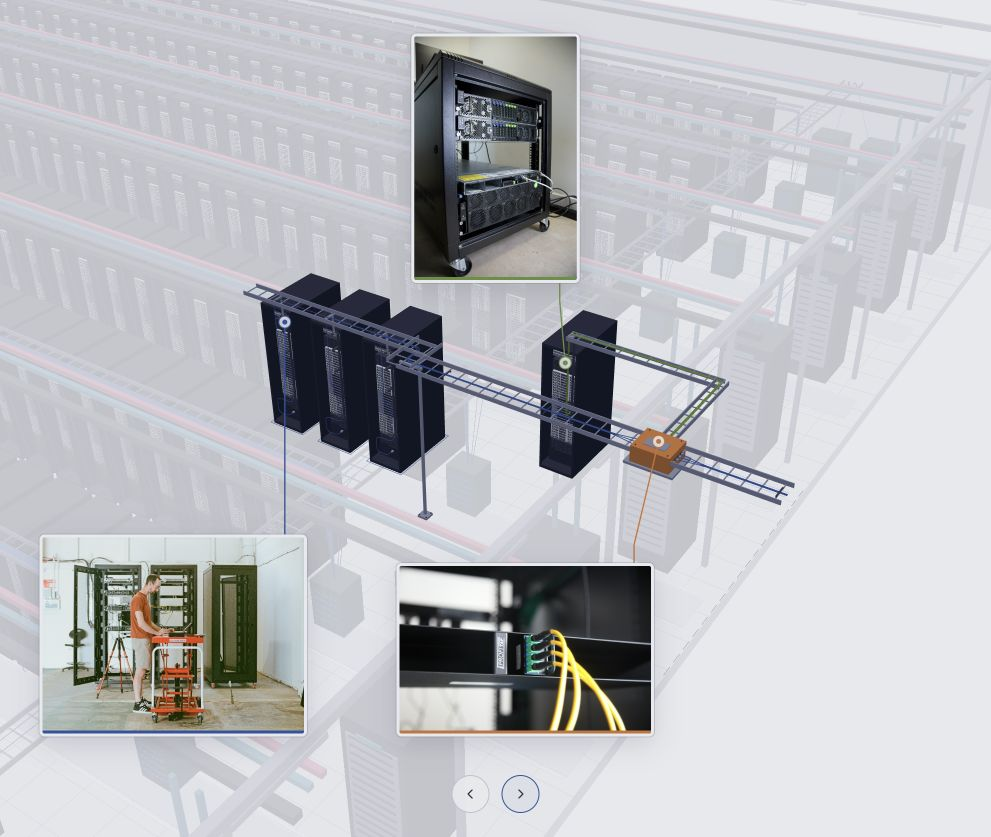
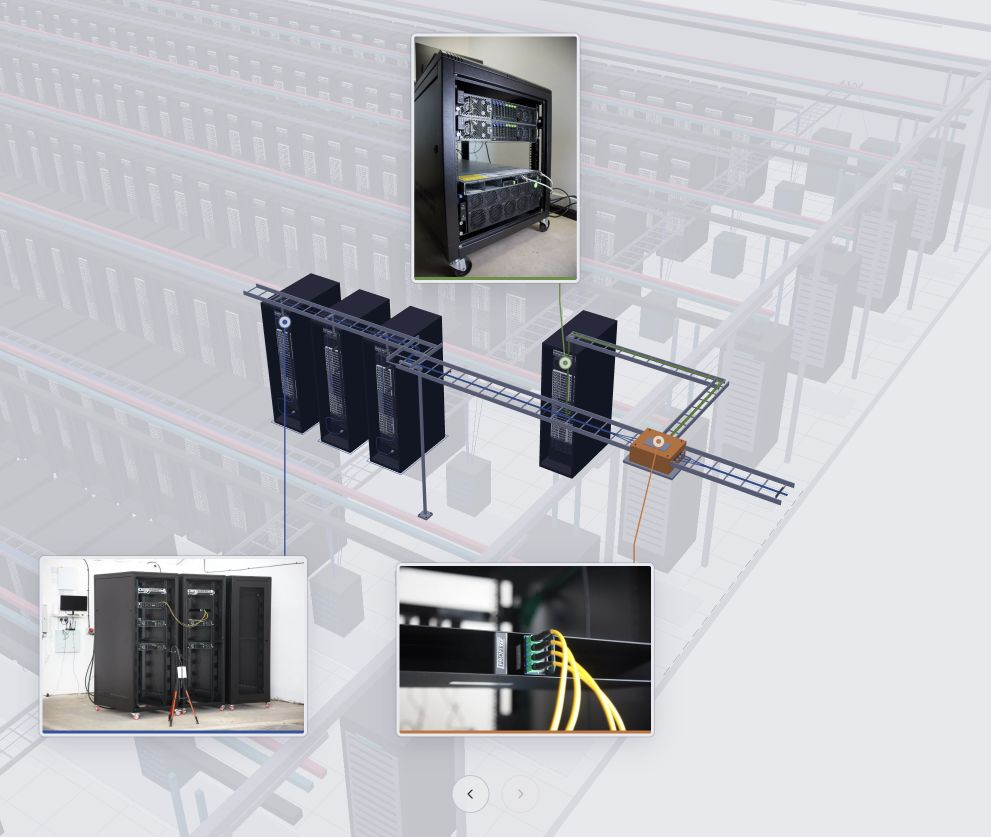
Optimize callout photos as responsive deferred WebP assets

Changed region(s): [[0.0303, 0.6213, 0.333, 0.9008], [0.5146, 0.9319, 0.5449, 0.963]]

diff --git a/src/photo_callouts.js b/src/photo_callouts.js
@@ -1,4 +1,5 @@
 import * as THREE from 'three';
+import photos from '../assets/web/photos.js';
 
 // Image-only callouts: fixed screen-space cards, with leaders attached to 3D hardware.
 export function createPhotoCallouts(stage,camera,getAnchors){
@@ -6,18 +7,19 @@ export function createPhotoCallouts(stage,camera,getAnchors){
  overlay.className='photo-callouts';overlay.setAttribute('aria-hidden','true');
  const svg=document.createElementNS(ns,'svg');svg.classList.add('photo-leaders');overlay.append(svg);
  const items=[
-  {key:'compute',src:'assets/compute.jpg',alt:'Real compute racks',color:'#2d539e',edge:'top'},
-  {key:'recompute',src:'assets/recompute.jpeg',alt:'Real recomputation server rack',color:'#668e3d',edge:'bottom'},
-  {key:'tap',src:'assets/TAP.jpg',alt:'Real network TAP and fibre connections',color:'#c57339',edge:'top'}
+  {key:'compute',sizes:'(max-width: 600px) 39vw, clamp(180px, 27vw, 350px)',alt:'Real compute racks',color:'#2d539e',edge:'top'},
+  {key:'recompute',sizes:'(max-width: 600px) 25vw, min(17vw, 190px, 22vh)',alt:'Real recomputation server rack',color:'#668e3d',edge:'bottom'},
+  {key:'tap',sizes:'(max-width: 600px) 41vw, clamp(180px, 26vw, 320px)',alt:'Real network TAP and fibre connections',color:'#c57339',edge:'top'}
  ].map((item,i)=>{
   const card=document.createElement('figure');card.className='photo-card '+item.key;card.style.setProperty('--accent',item.color);card.style.setProperty('--delay',`${i*110}ms`);
-  const img=document.createElement('img');img.src=item.src;img.alt=item.alt;img.decoding='async';card.append(img);overlay.append(card);
+  const img=document.createElement('img'),variants=photos[item.key].variants;img.alt=item.alt;img.decoding='async';img.width=variants[0].width;img.height=variants[0].height;img.sizes=item.sizes;card.append(img);overlay.append(card);
   const group=document.createElementNS(ns,'g');group.style.color=item.color;group.style.setProperty('--delay',`${i*110}ms`);
   const line=document.createElementNS(ns,'path'),halo=document.createElementNS(ns,'circle'),dot=document.createElementNS(ns,'circle');
   line.setAttribute('class','leader');halo.setAttribute('class','anchor-halo');halo.setAttribute('r','6');dot.setAttribute('class','anchor-dot');dot.setAttribute('r','2.5');group.append(line,halo,dot);svg.append(group);
-  return{...item,card,group,line,halo,dot};
+  return{...item,img,variants,card,group,line,halo,dot};
  });
- stage.append(overlay);let visible=false;
+ stage.append(overlay);let visible=false,loaded=false;
+ function preload(){if(loaded)return;loaded=true;for(const {img,variants}of items){img.fetchPriority='low';img.srcset=variants.map(v=>`${v.src} ${v.width}w`).join(', ');img.src=variants[0].src;}}
  function update(){
   if(!visible)return;
   const bounds=stage.getBoundingClientRect(),w=bounds.width,h=bounds.height,anchors=getAnchors();svg.setAttribute('viewBox',`0 0 ${w} ${h}`);
@@ -31,5 +33,5 @@ export function createPhotoCallouts(stage,camera,getAnchors){
    item.group.style.visibility=p.z>1||p.z< -1?'hidden':'visible';
   }
  }
- return{setVisible(value){visible=value;overlay.classList.toggle('is-visible',value);overlay.setAttribute('aria-hidden',String(!value));if(value)update();},update};
+ return{preload,setVisible(value){if(value)preload();visible=value;overlay.classList.toggle('is-visible',value);overlay.setAttribute('aria-hidden',String(!value));if(value)update();},update};
 }

diff --git a/assets/web/photos.js b/assets/web/photos.js
@@ -1,0 +1,57 @@
+// Generated by scripts/optimize-images.py; do not edit.
+export default {
+  "compute": {
+    "source": "assets/compute.jpg",
[1 lines of base64/hex data omitted]
+    "variants": [
+      {
+        "src": "assets/web/compute-480.webp",
+        "width": 480,
+        "height": 320,
+        "bytes": 14360
+      },
+      {
+        "src": "assets/web/compute-960.webp",
+        "width": 960,
+        "height": 640,
+        "bytes": 41864
+      }
+    ]
+  },
+  "recompute": {
+    "source": "assets/recompute.jpeg",
[1 lines of base64/hex data omitted]
+    "variants": [
+      {
+        "src": "assets/web/recompute-320.webp",
+        "width": 320,
+        "height": 480,
+        "bytes": 22628
+      },
+      {
+        "src": "assets/web/recompute-640.webp",
+        "width": 640,
+        "height": 960,
+        "bytes": 80796
+      }
+    ]
+  },
+  "tap": {
+    "source": "assets/TAP.jpg",
[1 lines of base64/hex data omitted]
+    "variants": [
+      {
+        "src": "assets/web/tap-480.webp",
+        "width": 480,
+        "height": 320,
+        "bytes": 10020
+      },
+      {
+        "src": "assets/web/tap-960.webp",
+        "width": 960,
+        "height": 640,
+        "bytes": 24438
+      }
+    ]
+  }
+};

diff --git a/src/install_viewer.js b/src/install_viewer.js
@@ -5,7 +5,7 @@ import {layoutRacks} from './fleet_layout.js';
 import {buildCableBundles} from './fleet_bundles.js';
 import {buildDataHall,buildHallFrontend} from './data_hall.js';
 import {buildVerificationScene} from './verification_scene.js?v=photo-callouts';
-import {createPhotoCallouts} from './photo_callouts.js?v=layout-2';
+import {createPhotoCallouts} from './photo_callouts.js?v=web-photos';
 import {iceberg,applyIcebergTheme} from './iceberg_theme.js';
 const presentation=document.documentElement.dataset.presentation==='iceberg';
 const $=id=>document.getElementById(id),stage=$('stage'),V=THREE.Vector3;
@@ -59,6 +59,7 @@ function goTo(index,instant=false){
  const from=focusIds.map(id=>positions[id].clone()),to=focusIds.map((id,i)=>index>=2?separated[i].clone():original[id].clone());
  const surroundings=index>0?contextScene:scene;surroundings.add(fullBundles.group,hall.group,hallFrontend.group);
  installation.setPhase(index<2?2:index<4?4:index===4?5:index===5||index===7?6:8);
+ if(index===5)photoCallouts?.preload();
  photoCallouts?.setVisible(index===7);
  installation.root.visible=true;
  installation.setTapInstall(installTaps?0:1);

diff --git a/scripts/optimize-images.py b/scripts/optimize-images.py
@@ -1,0 +1,45 @@
+#!/usr/bin/env python3
+"""Create responsive WebP assets from the original photos (ImageMagick + cwebp)."""
+import hashlib
+import json
+from pathlib import Path
+import shutil
+import subprocess
+import tempfile
+
+ROOT = Path(__file__).resolve().parents[1]
+OUT = ROOT / 'assets' / 'web'
+PHOTOS = {
+    'compute': ('compute.jpg', (480, 960)),
+    'recompute': ('recompute.jpeg', (320, 640)),
+    'tap': ('TAP.jpg', (480, 960)),
+}
+
+for tool in ('magick', 'cwebp'):
+    if not shutil.which(tool):
+        raise SystemExit(f'{tool} is required (macOS: brew install imagemagick webp).')
+OUT.mkdir(parents=True, exist_ok=True)
+manifest = {}
+with tempfile.TemporaryDirectory(prefix='lvhem-photos-') as temporary:
+    for key, (filename, widths) in PHOTOS.items():
+        source = ROOT / 'assets' / filename
+        variants = []
+        for width in widths:
+            intermediate = Path(temporary) / f'{key}-{width}.png'
+            output = OUT / f'{key}-{width}.webp'
+            subprocess.run(['magick', str(source), '-auto-orient', '-colorspace', 'sRGB',
+                            '-resize', f'{width}x>', '-strip', str(intermediate)], check=True)
+            subprocess.run(['cwebp', '-quiet', '-q', '82', '-m', '6', '-metadata', 'none',
+                            str(intermediate), '-o', str(output)], check=True)
+            dimensions = subprocess.check_output(['magick', 'identify', '-format', '%w %h',
+                                                  str(output)], text=True).split()
+            variants.append({'src': output.relative_to(ROOT).as_posix(),
+                             'width': int(dimensions[0]), 'height': int(dimensions[1]),
+                             'bytes': output.stat().st_size})
+        manifest[key] = {'source': f'assets/{filename}',
+                         'sourceSHA256': hashlib.sha256(source.read_bytes()).hexdigest(),
+                         'variants': variants}
+        print(f'{key}: {source.stat().st_size:,} bytes → ' +
+              ' / '.join(f'{v["width"]}px: {v["bytes"]:,} bytes' for v in variants))
+(OUT / 'photos.js').write_text('// Generated by scripts/optimize-images.py; do not edit.\n'
+                              + 'export default ' + json.dumps(manifest, indent=2) + ';\n')

diff --git a/DEPLOYMENT.md b/DEPLOYMENT.md
@@ -2,7 +2,7 @@
 
 Repository: **Amodo-Design/LVHEM_EXPLAINER** (private).
 
-The root Dockerfile serves the text-free presentation at `/` and `/presentation.html`. The image includes the model, vendored Three.js and the three photo callouts. It does not serve the asset editors, reference downloads, Git history or export gallery.
+The root Dockerfile serves the text-free presentation at `/` and `/presentation.html`. The image includes the model, vendored Three.js and responsive WebP versions of the three photo callouts. Original JPEGs are retained in Git but excluded from the deployed image. Regenerate web assets with `python3 scripts/optimize-images.py` whenever a source photo changes. It does not serve the asset editors, reference downloads, Git history or export gallery.
 
 This follows the [Apps Playground requirements](https://apps.amodo.tools/docs/app-requirements): the platform builds the default branch using `docker build <repo-root>` without build arguments. No image registry upload or Compose configuration is needed.
 
@@ -27,7 +27,7 @@ scripts/check-container.sh lvhem-explainer:playground
 docker run --rm --name lvhem-explainer -p 127.0.0.1:8080:8080 lvhem-explainer:playground
 ```
 
-Open `http://127.0.0.1:8080/`. The check script starts a temporary container on a random loopback port and removes it afterwards. It checks the homepage, every runtime asset, exact photo bytes against the current assets folder, JavaScript MIME types, missing/private paths, the non-root runtime user, and the single-port contract.
+Open `http://127.0.0.1:8080/`. The check script starts a temporary container on a random loopback port and removes it afterwards. It checks the homepage, every runtime asset, exact optimized photo bytes against `assets/web/`, JavaScript MIME types, missing/private paths, the non-root runtime user, and the single-port contract.
 
 For the isolated Colima runtime created on this workstation, prefix Docker commands with `docker --context colima-ai-verification`, or set `DOCKER_CONTEXT=colima-ai-verification` when running the check script. This does not change the user's default Docker context.
 

diff --git a/README.md b/README.md
@@ -94,3 +94,7 @@ The real-hardware step adds the supplied `compute.jpg`, `recompute.jpeg` and `TA
 ## Hosting on Amodo Apps Playground
 
 The root `Dockerfile` packages the text-free presentation as the homepage, using an unprivileged nginx server on port 8080. No secrets, database or persistent volume are required. See [DEPLOYMENT.md](DEPLOYMENT.md) for registration, build and verification instructions for `Amodo-Design/LVHEM_EXPLAINER`.
+
+### Web photo assets
+
+Callouts use responsive WebP copies in `assets/web/`, preloaded only on the verifier step. The large original JPEGs stay in `assets/` for future edits and are excluded from the Docker image. Run `python3 scripts/optimize-images.py` after changing an original (requires ImageMagick and cwebp). It normalizes orientation, converts to sRGB, strips metadata, and generates two sizes per photo plus a manifest recording each original’s SHA-256. The largest three variants total about 147 KB, versus 38 MB for the originals.
